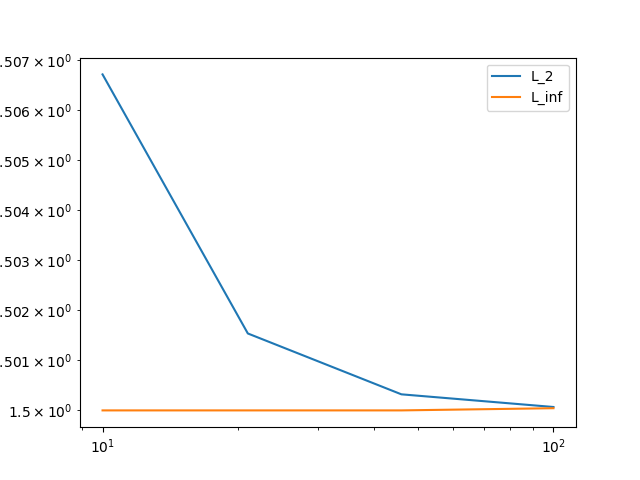
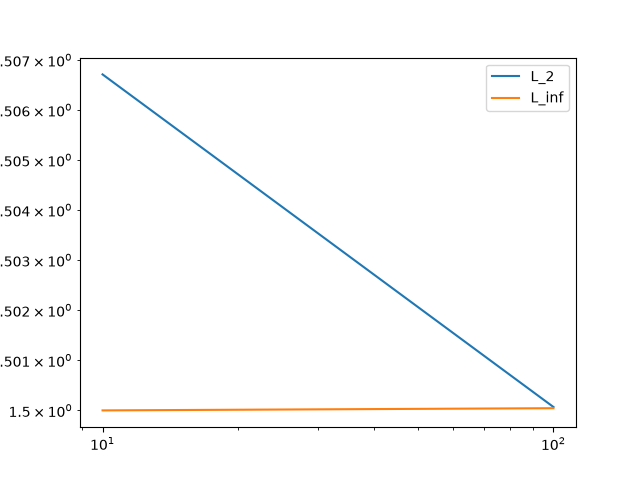
Modified Poisson Solver to use Sparse arrays

diff --git a/Scripts/problem_0_4.py b/Scripts/problem_0_4.py
@@ -1,6 +1,6 @@
 import numpy as np
 import matplotlib.pyplot as plt
-import scipy as sp
+import scipy.sparse as sp
 
 def u(x,y): # The exact solution
     return np.sin(y)*np.cos(x)
@@ -11,7 +11,8 @@ def f(x,y): # The forcing function
 def finiteDifferencePoisson(a, b, n, bc="dirichlet", returnGrid = True):
     if bc == "neumann":
         # This method uses forward + backward differences to enforce the neumann conditions... this will mean the solution to the PDE will be O(h)
-        A = np.eye(n**2)
+        # The Neumann boundary solver is not intended to be used wtih large matricies.
+        A = sp.lil_array((n**2,n**2))
         h = (b-a)/(n-1)
         x = np.linspace(a-h, b+h, n)
         y = np.linspace(a-h, b+h, n) # this line in unnecessary but makes my code a bit easier to read
@@ -31,23 +32,23 @@ def finiteDifferencePoisson(a, b, n, bc="dirichlet", returnGrid = True):
                     A[k,k+1] = 1/h
                     b_hat[k] = 0
                 elif i == n-1: # u_y(x,5)=cos5*cosx, backward difference
-                    A[k,k] = 1/h
                     A[k,k-n] = -1/h
+                    A[k,k] = 1/h
                     b_hat[k] = np.cos(5)*np.cos(x[j])
                 elif j == n-1 : #u_x(5,y) = cos5*cosx, backward difference
-                    A[k,k] = 1/h
                     A[k,k-1] = -1/h
+                    A[k,k] = 1/h
                     b_hat[k] = np.cos(y[i])*np.cos(5)
                 # Finite difference formula everywhere else
                 else:
-                    A[k,k] = -4/h**2
-                    A[k,k-1] = 1/h**2
-                    A[k,k+1] = 1/h**2
                     A[k,k-n] = 1/h**2
+                    A[k,k-1] = 1/h**2
+                    A[k,k] = -4/h**2
+                    A[k,k+1] = 1/h**2
                     A[k,k+n] = 1/h**2
-        print(f"the condition number of A is {np.linalg.cond(A)}")
+        print(f"the condition number of A is {np.linalg.cond(A.toarray())}")
     else:
-        A = np.eye(n**2)
+        A = sp.lil_array((n**2,n**2))
         h = (b-a)/(n-1)
         x = np.linspace(a, b, n)
         y = np.linspace(a, b, n) # this line in unnecessary but makes my code a bit easier to read
@@ -59,23 +60,28 @@ def finiteDifferencePoisson(a, b, n, bc="dirichlet", returnGrid = True):
                 k = n*i+j
                 # leave A unmodified (we want an identity row) and update b_hat to enforce the boundary condition along the boundaries
                 if i == 0: # u(x,0)
+                    A[k,k] = 1
                     b_hat[k] = 0
                 elif j == 0: # u(0,y)
+                    A[k,k] = 1
                     b_hat[k] = np.sin(y[i])
                 elif i == n-1: # u(x,5)
+                    A[k,k] = 1
                     b_hat[k] = np.sin(5)*np.cos(x[j])
                 elif j == n-1 : #u(5,y)
+                    A[k,k] = 1
                     b_hat[k] = np.sin(y[i])*np.cos(5)
                 # Finite difference formula everywhere else
                 else:
-                    A[k,k] = -4/h**2
-                    A[k,k-1] = 1/h**2
-                    A[k,k+1] = 1/h**2
                     A[k,k-n] = 1/h**2
+                    A[k,k-1] = 1/h**2
+                    A[k,k]   = -4/h**2
+                    A[k,k+1] = 1/h**2
                     A[k,k+n] = 1/h**2
 
     # Solve the system
-    u_approx = np.linalg.solve(A, b_hat)
+    A.tocsr()
+    u_approx = sp.linalg.spsolve(A, b_hat)
 
     # Reshape outputs so they are good for plotting
     if returnGrid:
@@ -116,8 +122,8 @@ def main():
     ax2.set_title("Exact Solution")
     plt.savefig("Images\\problem4_2.png")
 
-    num_trials = 4
-    meshes = np.floor(np.logspace(1, 2, num_trials)).astype(int)
+    num_trials = 5
+    meshes = np.floor(np.logspace(1, 5, num_trials)).astype(int)
     L_2 = np.zeros(num_trials)
     L_inf = np.zeros(num_trials)
     for i in range(num_trials):
@@ -131,7 +137,7 @@ def main():
 
     xx,yy,u_neumann = finiteDifferencePoisson(a, b, n, bc="neumann") # the condition number of A is 1.174812990360801e+17 for one n=40
 
-    fig3 = plt.figure(4)
+    fig4 = plt.figure(4)
     ax4 = plt.axes(projection='3d')
     ax4.plot_surface(xx,yy,u_neumann)
     ax4.set_xlabel("x")
